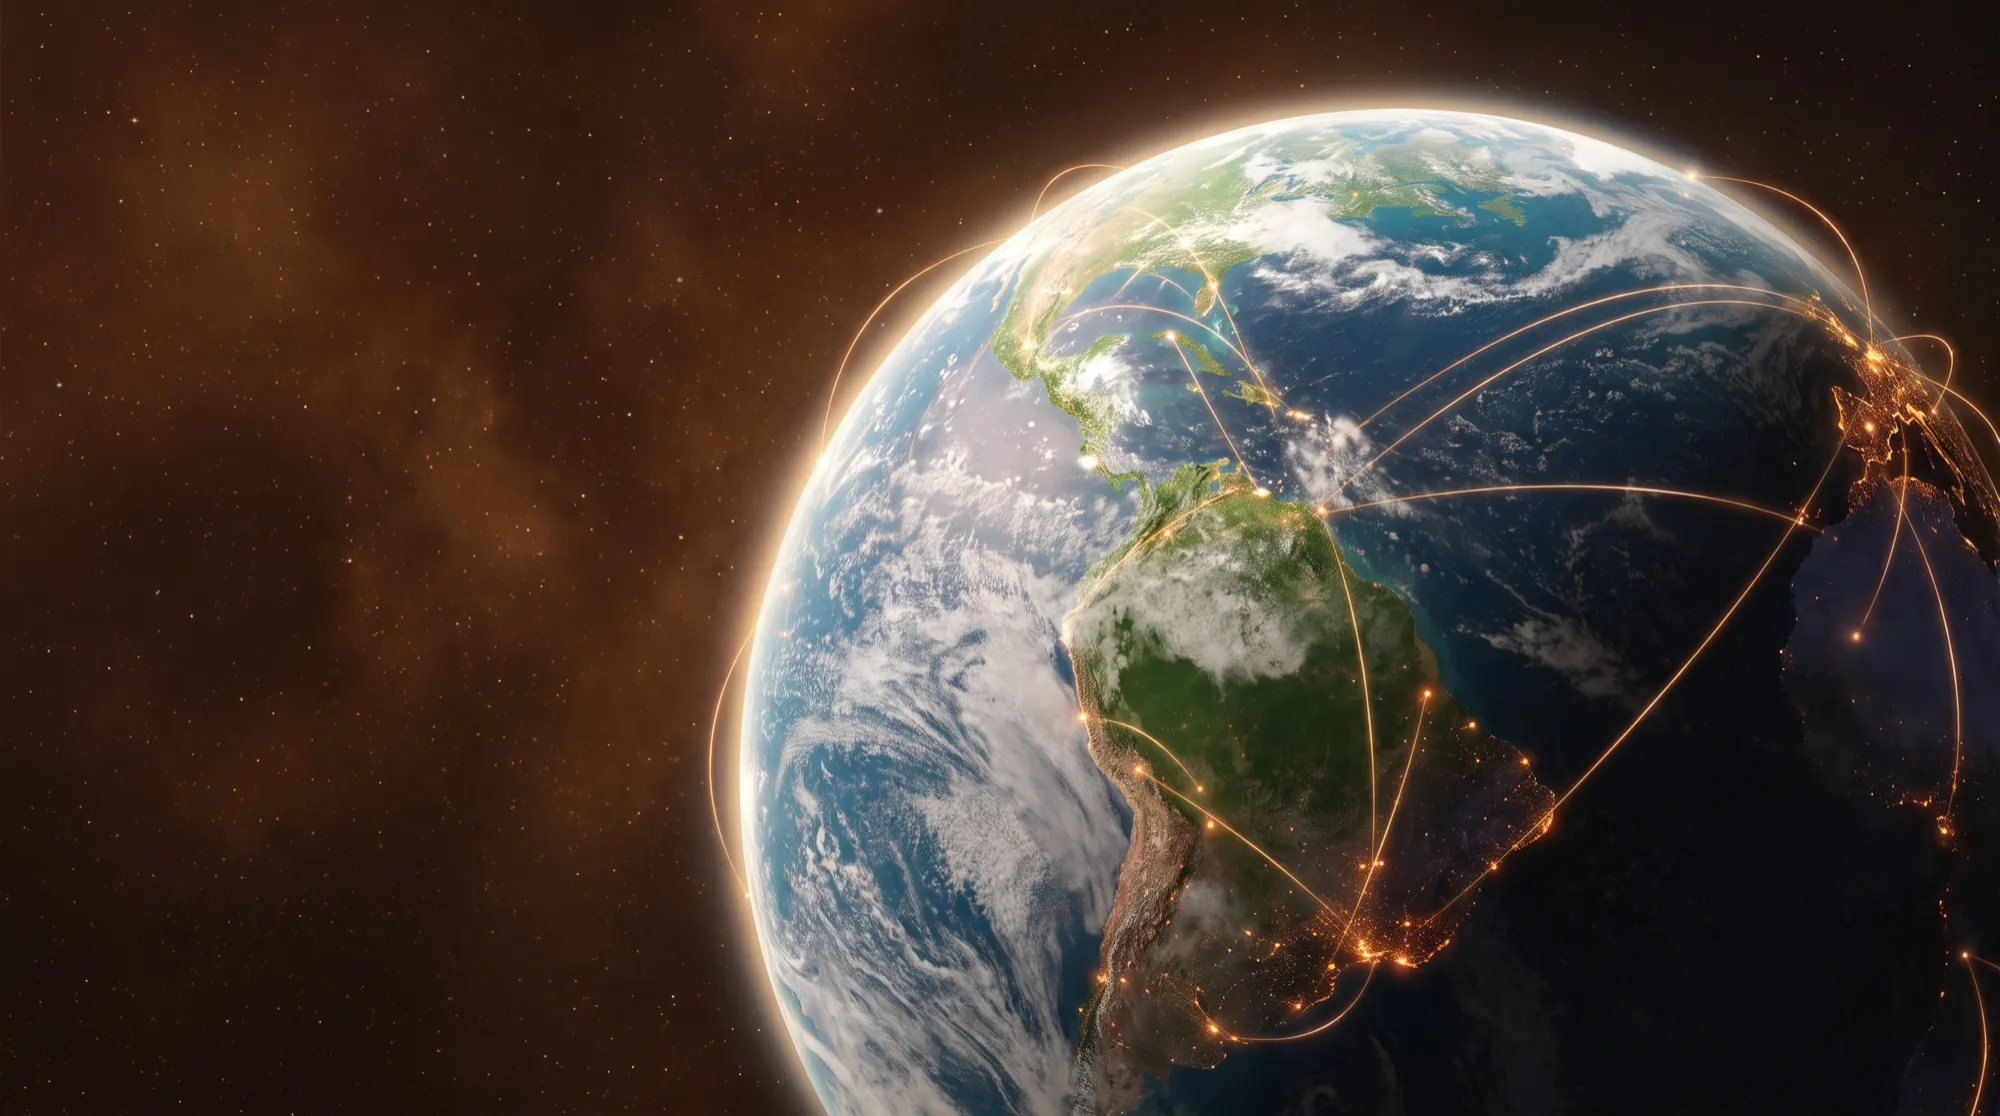
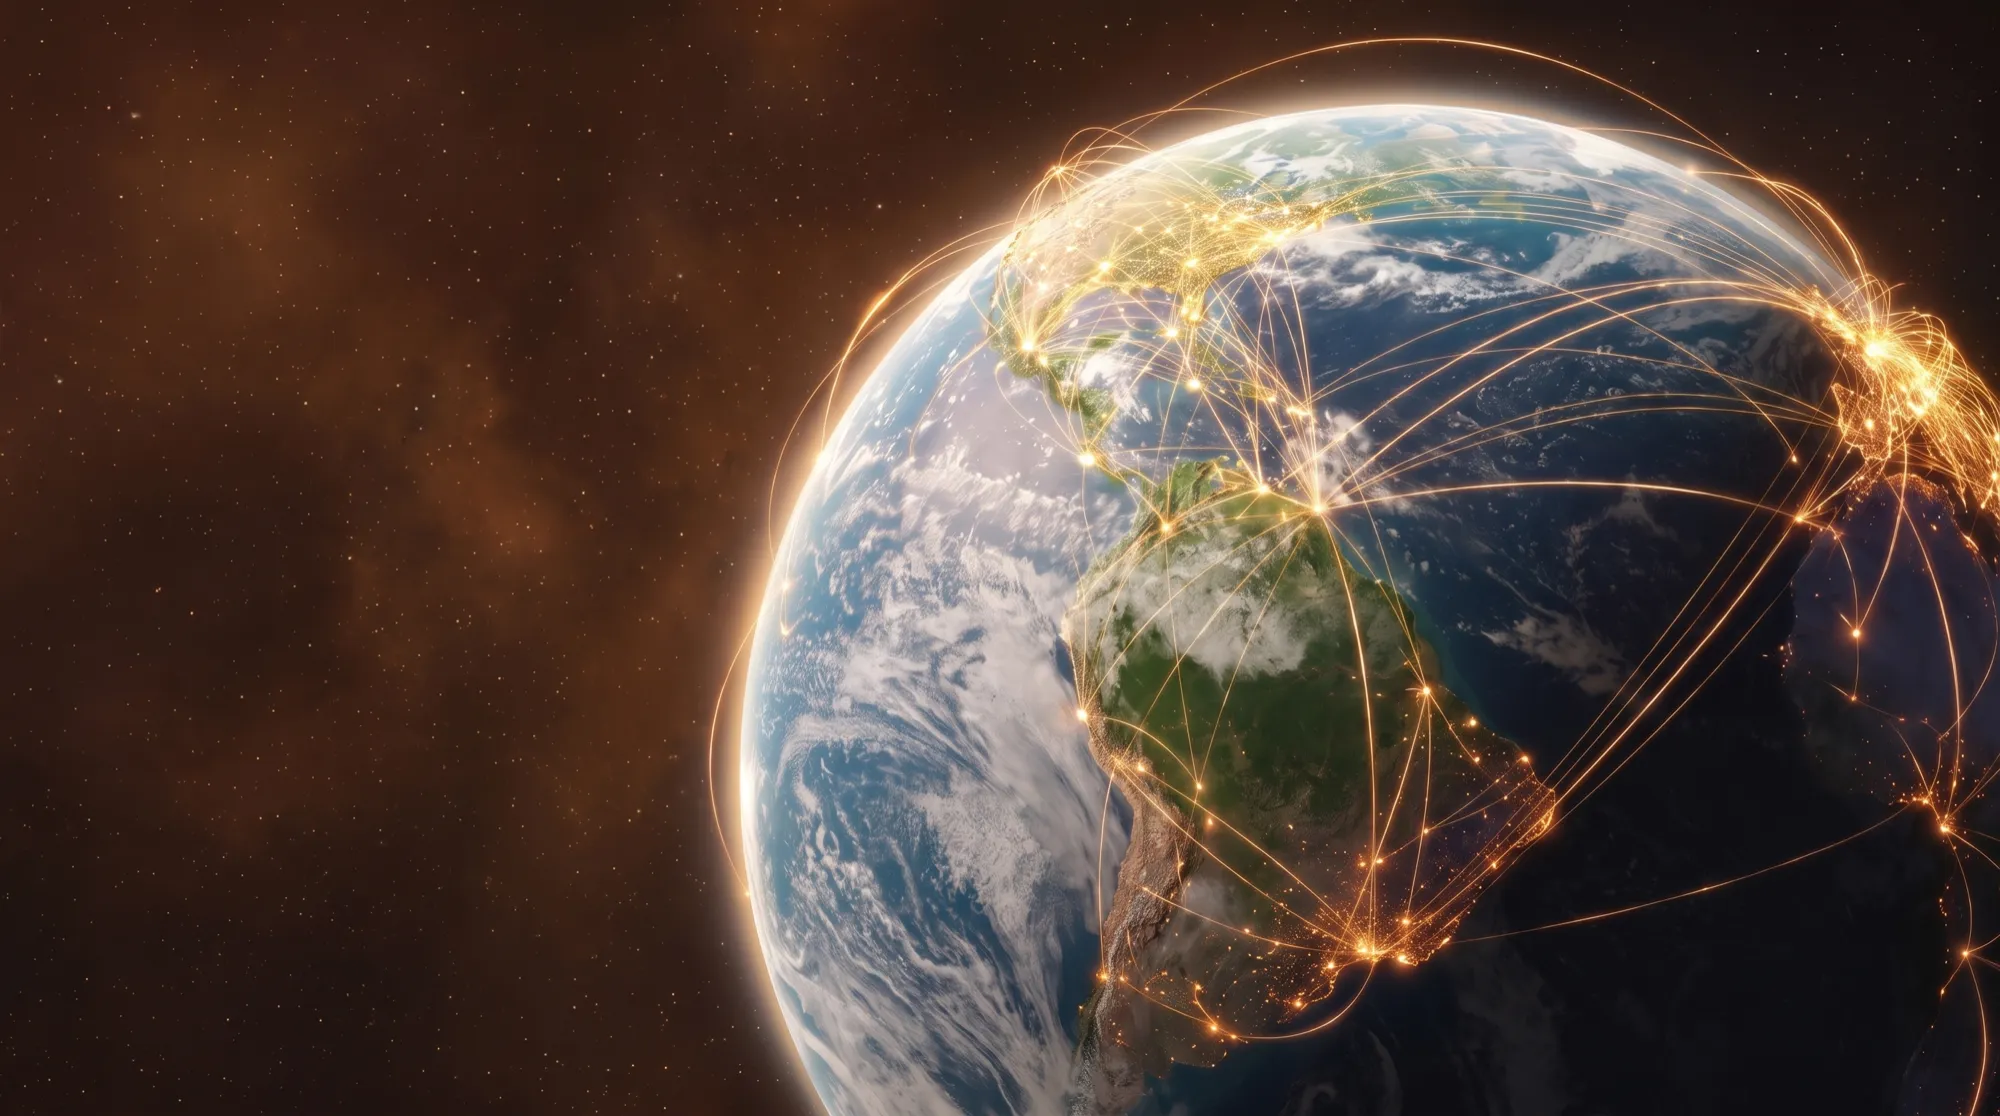
DC investor deck: close slide title only, denser planet network render

diff --git a/superwood-datacenter-investor/slides.html b/superwood-datacenter-investor/slides.html
@@ -645,10 +645,9 @@ table.risks td:first-child{width:38%}table.risks td{font-size:max(.78rem,11px)}
 </section>
 
 <section id="close" data-nav="Close">
-  <div class="bg" style="background-image:url(assets/close_bg.webp?v=d338812a)"></div><div class="scrim" style="background:rgba(18,12,7,.25)"></div>
+  <div class="bg" style="background-image:url(assets/close_bg.webp?v=7ed9b02c)"></div><div class="scrim" style="background:linear-gradient(90deg,rgba(18,12,7,.88) 0%,rgba(18,12,7,.7) 40%,rgba(18,12,7,.3) 70%,rgba(18,12,7,.1) 100%)"></div>
   <div class="wrap">
     <h1 class="rv">Let’s work together to build AI buildings that are <em>better to build</em>, good for people, and good for the world.</h1>
-    <ul class="recap rv"><li>Data centers are short of steel and already build with wood.</li><li>SUPERWOOD turbocharges that wood: skins and fences now, structure in the medium term.</li><li>One basis-of-design win with a hyperscaler is the demand case for SuperMill Two.</li></ul>
     <p class="rv" style="margin-bottom:.4rem">Company, mills, cost roadmap and the raise: <a href="https://sw.inventwood.net/supermills-deck/" style="color:var(--wood-bright)">SUPERMILLS Investor Overview</a></p>
     <img class="wm rv" src="assets/inventwood_logo.png?v=29cddb1d" alt="InventWood">
     <p class="rv">Alex Lau · CEO / Co-Founder · <a href="mailto:alex@inventwood.com" style="color:var(--wood-bright)">alex@inventwood.com</a></p>

diff --git a/superwood-datacenter-investor/v2.html b/superwood-datacenter-investor/v2.html
@@ -617,10 +617,9 @@ table.cmp td{line-height:1.4}
 </section>
 
 <section id="close" data-nav="Close">
-  <div class="bg" style="background-image:url(assets/close_bg.webp?v=d338812a)"></div><div class="scrim" style="background:rgba(18,12,7,.25)"></div>
+  <div class="bg" style="background-image:url(assets/close_bg.webp?v=7ed9b02c)"></div><div class="scrim" style="background:linear-gradient(90deg,rgba(18,12,7,.88) 0%,rgba(18,12,7,.7) 40%,rgba(18,12,7,.3) 70%,rgba(18,12,7,.1) 100%)"></div>
   <div class="wrap">
     <h1 class="rv">Let’s work together to build AI buildings that are <em>better to build</em>, good for people, and good for the world.</h1>
-    <ul class="recap rv"><li>Data centers are short of steel and already build with wood.</li><li>SUPERWOOD turbocharges that wood: skins and fences now, structure next.</li><li>One basis-of-design win with a hyperscaler is the demand case for SuperMill Two.</li></ul>
     <p class="rv" style="margin-bottom:.4rem">Company, mills, cost roadmap and the raise: <a href="https://sw.inventwood.net/supermills-deck/" style="color:var(--wood-bright)">SUPERMILLS Investor Overview</a></p>
     <img class="wm rv" src="assets/inventwood_logo.png?v=29cddb1d" alt="InventWood">
     <p class="rv">Alex Lau · CEO / Co-Founder · <a href="mailto:alex@inventwood.com" style="color:var(--wood-bright)">alex@inventwood.com</a></p>

diff --git a/superwood-datacenter-investor/gen.js b/superwood-datacenter-investor/gen.js
@@ -513,8 +513,8 @@ note(s, "US: Census Bureau, Construction Spending (C30), July 2026, seasonally a
 // ---------- CLOSE ----------
 s = newSlide();
 s.background = { path: "prep/close_bg.jpg" };
+s.addShape(pres.ShapeType.rect, { x: 0, y: 0, w: W * 0.62, h: H, fill: { color: "120C07", transparency: 30 } });
 s.addText([t("Let’s work together to build AI buildings that are "), gold("better to build"), t(", good for people, and good for the world.")], { x: 1.0, y: 2.0, w: 11, h: 1.6, fontFace: SERIF, fontSize: 34, color: CREAM, margin: 0 });
-bullets(s, ["Data centers are short of steel and already build with wood.", "SUPERWOOD turbocharges that wood: skins and fences now, structure in the medium term.", "One basis-of-design win with a hyperscaler is the demand case for SuperMill Two."], { x: 1.0, y: 3.55, w: 7.5, h: 1.2, fontSize: 12.5, color: CREAM });
 s.addText("Company, mills, cost roadmap and the raise: SUPERMILLS Investor Overview", { x: 1.0, y: 4.8, w: 9, h: 0.3, fontFace: SANS, fontSize: 11, color: BRIGHT, margin: 0 });
 s.addImage({ path: "prep/inventwood_logo.png", x: 1.0, y: 5.25, w: 3.6, h: 3.6 * 216 / 1473 });
 s.addText("Alex Lau · CEO / Co-Founder · alex@inventwood.com", { x: 1.0, y: 5.95, w: 9, h: 0.4, fontFace: SANS, fontSize: 14, color: DIM, margin: 0 });

diff --git a/superwood-datacenter-investor/render/close-planet-network.md b/superwood-datacenter-investor/render/close-planet-network.md
@@ -3,7 +3,7 @@
 - Date: 2026-09-06
 - Target model: Nano Banana Pro (via Higgsfield), 16:9, job d06d7952
 - Purpose: investor companion deck, close slide background behind the call to action ("Let's work together to build AI buildings that are better to build, good for people, and good for the world.")
-- Status: generated → assets/close_bg.webp, prep/close_bg.jpg (cover_bg stays on the cover)
+- Status: v2 (job 1f717618, image-to-image from v1 d06d7952) → assets/close_bg.webp, prep/close_bg.jpg (cover_bg stays on the cover)
 
 ## Prompt
 Cinematic view of planet Earth from space, beautiful and alive: lush green continents, deep blue oceans, soft white clouds, thin glowing atmosphere at the limb. Across the night and day sides, small warm points of light mark data center sites, linked by thin, elegant golden-amber arcs of light that curve above the surface and connect the continents, like a gentle digital network embracing the globe. Warm amber and deep espresso-brown tones in the surrounding space, no harsh neon, no blue cyberpunk glow. Photorealistic, high detail, calm and hopeful mood, wide composition with the Earth slightly right of center and dark space on the left for text. No text, no logos, no people.
@@ -11,3 +11,6 @@ Cinematic view of planet Earth from space, beautiful and alive: lush green conti
 ## Notes
 - Alex 2026-09-06: "the image should be of the beautiful planet, with greenery, and showing data centers connected digitally around the world."
 - Labelled as a concept rendering by the deck's standing caption convention where an image is illustrative; the close slide carries no caption.
+
+## Revision 2 (Alex, 2026-09-06): far denser network
+Image-to-image from v1: "a lot more connectivity with data centers in America, connectivity everywhere". Prompt asked for a dense web of nodes and hundreds of arcs over North America and every continent, arcs crossing every ocean. Close slide also drops its recap bullets; only the call to action, the Overview link, logo and contacts remain.

diff --git a/superwood-datacenter-investor/SLIDE-NOTES.md b/superwood-datacenter-investor/SLIDE-NOTES.md
@@ -62,6 +62,7 @@ Footer: confidential mark left, pager centered, InventWood wordmark at the right
 - SUPERMILLS deck itself still titles itself "SUPERMILLS America" in its own repo.
 
 ## Change log
+- 2026-09-06: close slide: recap bullets removed (title only, Alex); planet render v2 with a much denser global network; left-to-right scrim so the headline reads over the globe.
 - 2026-09-06: close slide background is a new Higgsfield render of Earth with data centers linked by amber arcs (render/close-planet-network.md, assets/close_bg.webp); the cover keeps cover_bg.
 - 2026-09-06: slide 5 subtitle is the one Data Center Watch line; the ordinance examples and sources move into a structured hover pop-up with linked Data Center Watch and NBC News sources (.srctip .row).
 - 2026-09-06: slide 17 bars reordered and relabelled (Alex): Data Centers (US) $75B, All Construction (US) $2,158B, All Construction (Global) about $13,300B (Oxford Economics 2025 forecast, 2017 prices, conf M; new register fact market.global_construction_output_forecast). Line adds "about 0.6% of the world's".
